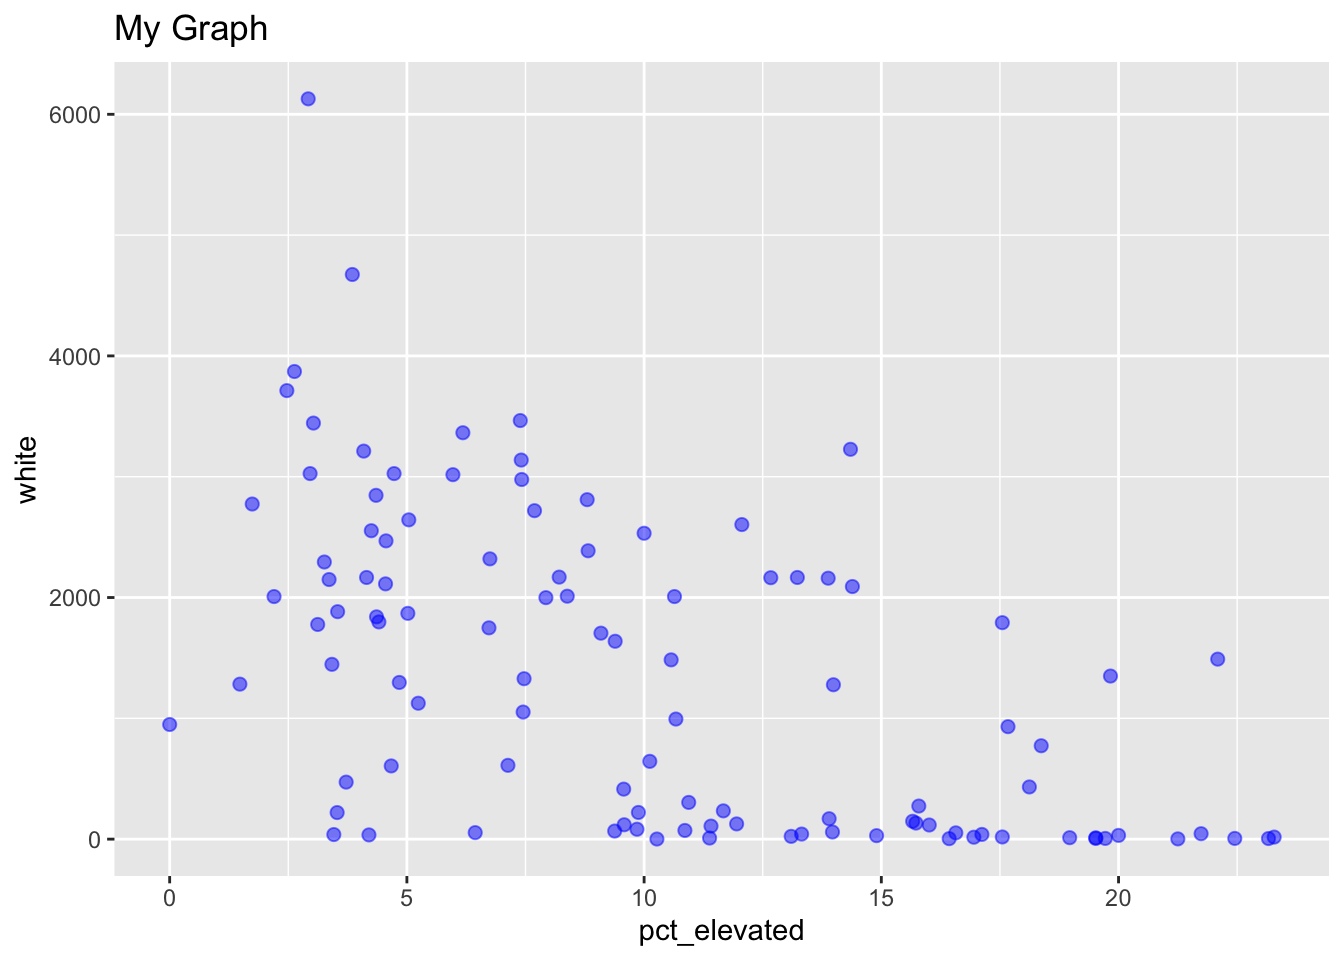
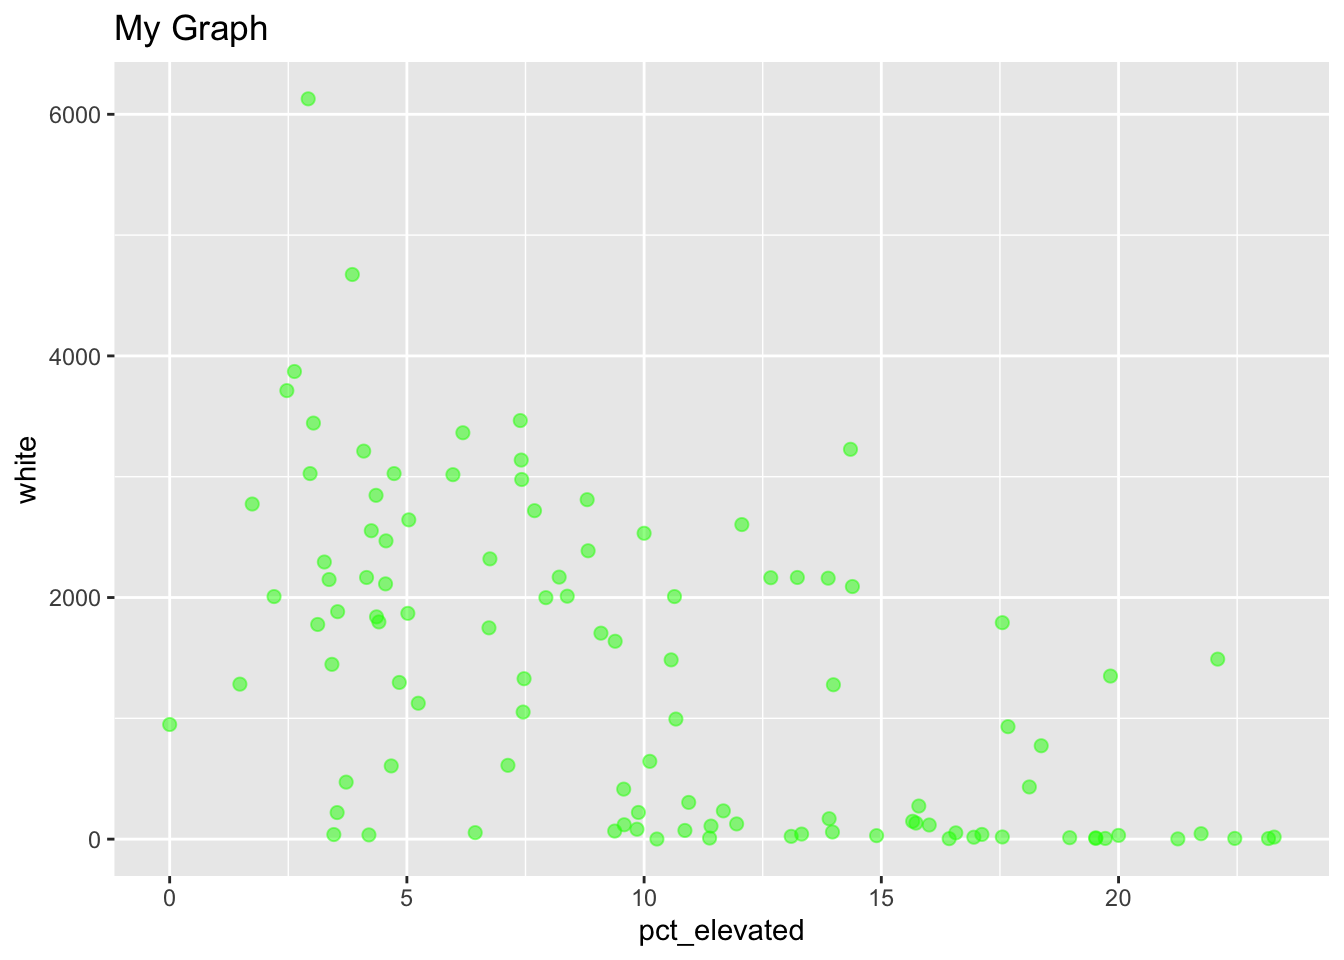
changed colors

diff --git a/Docs/stl-lead-jp.html b/Docs/stl-lead-jp.html
@@ -165,7 +165,7 @@ dbl (14): geoID, tractCE, countTested, pctElevated, totalPop, totalPop_MOE, ...
 <div class="cell">
 <div class="sourceCode cell-code" id="cb9"><pre class="sourceCode r code-with-copy"><code class="sourceCode r"><span id="cb9-1"><a href="#cb9-1" aria-hidden="true" tabindex="-1"></a>stl_lead_plot <span class="ot">=</span> <span class="fu">ggplot</span>(<span class="at">data =</span> stl_lead, <span class="fu">aes</span>(<span class="at">x=</span>pct_elevated,</span>
 <span id="cb9-2"><a href="#cb9-2" aria-hidden="true" tabindex="-1"></a>                             <span class="at">y=</span>white)) <span class="sc">+</span></span>
-<span id="cb9-3"><a href="#cb9-3" aria-hidden="true" tabindex="-1"></a>  <span class="fu">geom_point</span>(<span class="at">size=</span><span class="dv">2</span>, <span class="at">alpha=</span><span class="fl">0.5</span>, <span class="at">color =</span> <span class="st">"blue"</span>) <span class="sc">+</span> <span class="fu">labs</span>(<span class="at">title =</span> <span class="st">"My Graph"</span>)</span>
+<span id="cb9-3"><a href="#cb9-3" aria-hidden="true" tabindex="-1"></a>  <span class="fu">geom_point</span>(<span class="at">size=</span><span class="dv">2</span>, <span class="at">alpha=</span><span class="fl">0.5</span>, <span class="at">color =</span> <span class="st">"green"</span>) <span class="sc">+</span> <span class="fu">labs</span>(<span class="at">title =</span> <span class="st">"My Graph"</span>)</span>
 <span id="cb9-4"><a href="#cb9-4" aria-hidden="true" tabindex="-1"></a></span>
 <span id="cb9-5"><a href="#cb9-5" aria-hidden="true" tabindex="-1"></a>stl_lead_plot</span></code><button title="Copy to Clipboard" class="code-copy-button"><i class="bi"></i></button></pre></div>
 <div class="cell-output-display">
@@ -193,7 +193,7 @@ dbl (14): geoID, tractCE, countTested, pctElevated, totalPop, totalPop_MOE, ...
 <h3 class="anchored" data-anchor-id="section-1"></h3>
 <p>###Creating a Histogram</p>
 <div class="cell">
-<div class="sourceCode cell-code" id="cb12"><pre class="sourceCode r code-with-copy"><code class="sourceCode r"><span id="cb12-1"><a href="#cb12-1" aria-hidden="true" tabindex="-1"></a>graph_hist <span class="ot">&lt;-</span> <span class="fu">ggplot</span>(<span class="at">data=</span>stl_lead, <span class="fu">aes</span>(<span class="at">x=</span>pct_elevated)) <span class="sc">+</span> <span class="fu">geom_histogram</span>(<span class="at">color=</span><span class="st">"red"</span>, <span class="at">alpha =</span> <span class="fl">0.8</span>)</span>
+<div class="sourceCode cell-code" id="cb12"><pre class="sourceCode r code-with-copy"><code class="sourceCode r"><span id="cb12-1"><a href="#cb12-1" aria-hidden="true" tabindex="-1"></a>graph_hist <span class="ot">&lt;-</span> <span class="fu">ggplot</span>(<span class="at">data=</span>stl_lead, <span class="fu">aes</span>(<span class="at">x=</span>pct_elevated)) <span class="sc">+</span> <span class="fu">geom_histogram</span>(<span class="at">color=</span><span class="st">"blue"</span>, <span class="at">alpha =</span> <span class="fl">0.8</span>)</span>
 <span id="cb12-2"><a href="#cb12-2" aria-hidden="true" tabindex="-1"></a></span>
 <span id="cb12-3"><a href="#cb12-3" aria-hidden="true" tabindex="-1"></a>graph_hist</span></code><button title="Copy to Clipboard" class="code-copy-button"><i class="bi"></i></button></pre></div>
 <div class="cell-output cell-output-stderr">
